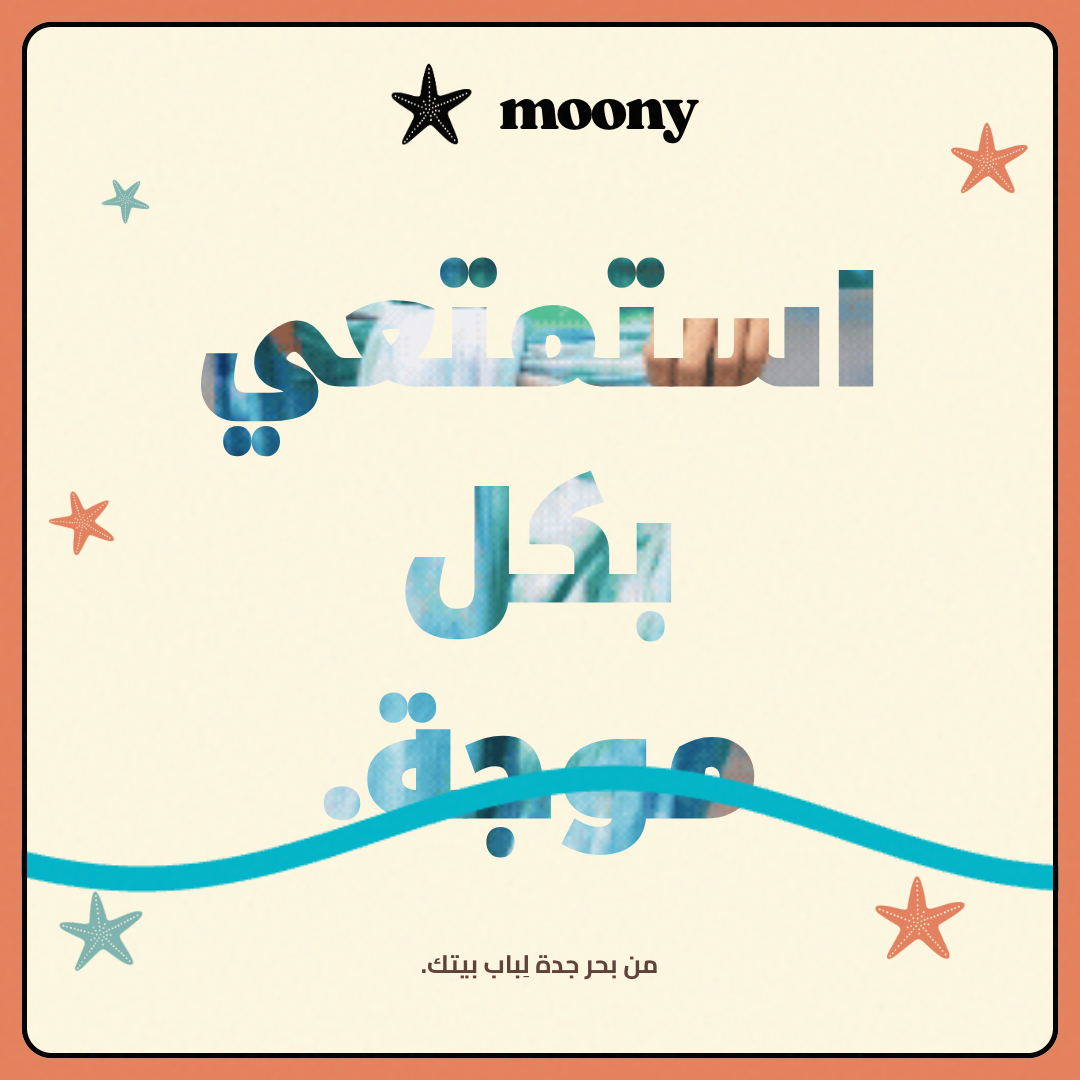
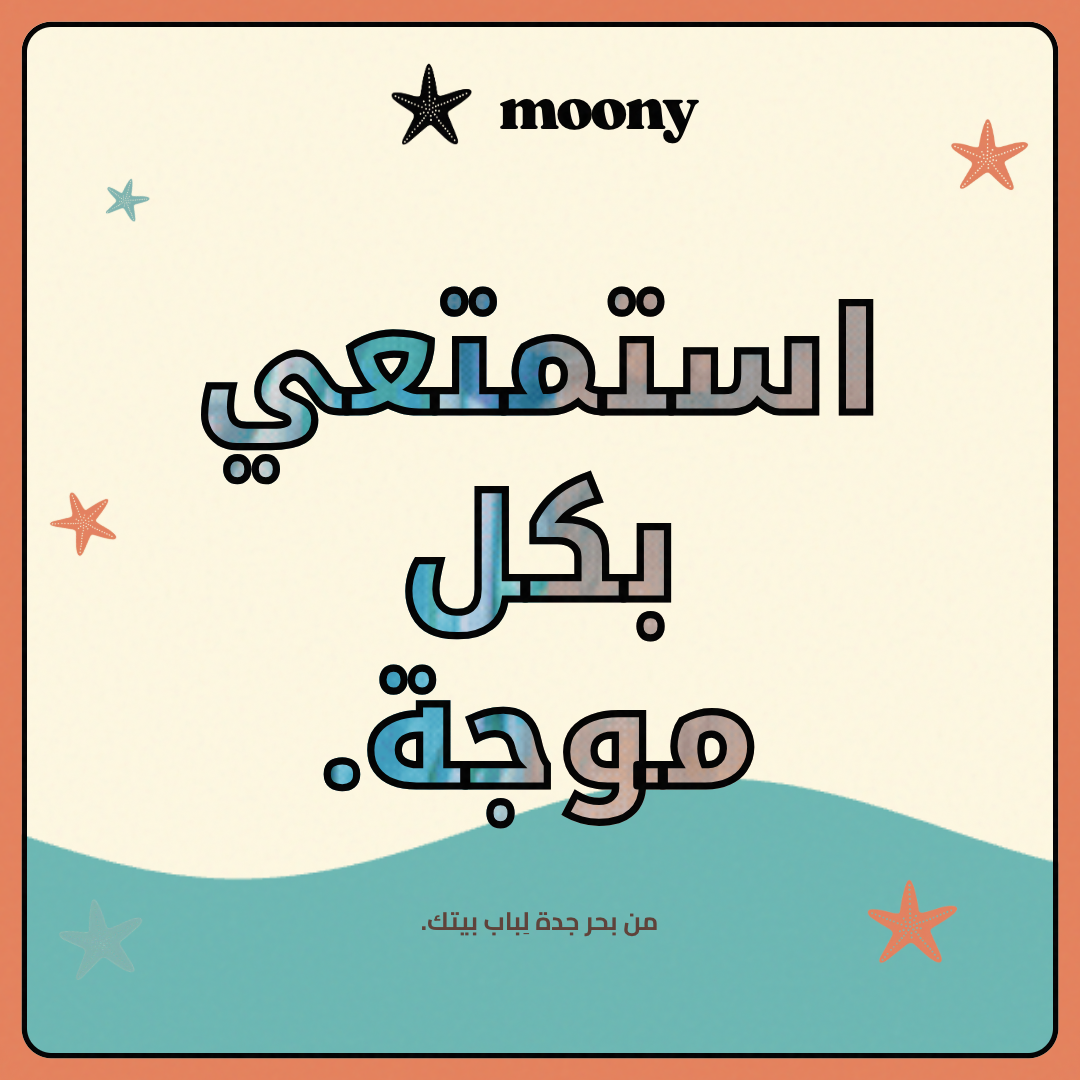
fix: restored black text stroke on hero text and fixed z-index

diff --git a/client/src/pages/home-ar.tsx b/client/src/pages/home-ar.tsx
@@ -120,16 +120,16 @@ export default function HomeAR() {
             viewport={{ once: true }}
             className="flex-grow flex flex-col justify-center items-center text-center px-4 lg:px-8 relative w-full"
           >
-            <div className="relative z-10 mb-2 lg:mb-4 w-full max-w-6xl mx-auto py-8 lg:py-20 px-4" dir="ltr">
+            <div className="relative z-30 mb-2 lg:mb-4 w-full max-w-6xl mx-auto py-8 lg:py-20 px-4" dir="ltr">
               <h1 
                 key={selectedCollection + "-text"}
                 className="uppercase font-black w-full text-center tracking-normal text-transparent bg-clip-text bg-cover bg-center"
                 style={{
                   backgroundImage: `url(${selectedCollection === 'daydream' ? '/images/models/daydream/VIDDD.gif' : '/images/models/aquaglow/VIDAG.gif'})`,
                   fontSize: "clamp(5rem, 12vw, 9rem)",
-                  lineHeight: "1.5",
+                  lineHeight: "1.3",
                   fontFamily: "'Noto Kufi Arabic', sans-serif",
-                  WebkitTextStroke: "4px transparent"
+                  WebkitTextStroke: "4px #000000"
                 }}
               >
                 <span dir="rtl" className="block">استمتعي<br/>بكل<br/>موجة.</span>

diff --git a/client/src/pages/home.tsx b/client/src/pages/home.tsx
@@ -126,7 +126,7 @@ export default function Home() {
             viewport={{ once: true }}
             className="flex-grow flex flex-col justify-center items-center text-center px-4 lg:px-8 relative w-full"
           >
-            <div className="relative z-10 mb-2 lg:mb-4 w-full max-w-6xl mx-auto py-8 lg:py-20 px-4">
+            <div className="relative z-30 mb-2 lg:mb-4 w-full max-w-6xl mx-auto py-8 lg:py-20 px-4">
               <h1 
                 key={selectedCollection + "-text"}
                 className="uppercase font-black w-full text-center tracking-normal text-transparent bg-clip-text bg-cover bg-center"
@@ -135,7 +135,7 @@ export default function Home() {
                   fontSize: isAr ? "clamp(5rem, 12vw, 9rem)" : "clamp(5rem, 12vw, 9rem)",
                   lineHeight: "1.3",
                   fontFamily: isAr ? "'Noto Kufi Arabic', sans-serif" : "inherit",
-                  WebkitTextStroke: isAr ? "4px transparent" : "none"
+                  WebkitTextStroke: "4px #000000"
                 }}
               >
                 {isAr ? <span dir="rtl" className="block">اجعلي<br/>كل موجة<br/>تحسب.</span> : <>Make<br/>Every Wave<br/>Count.</>}
